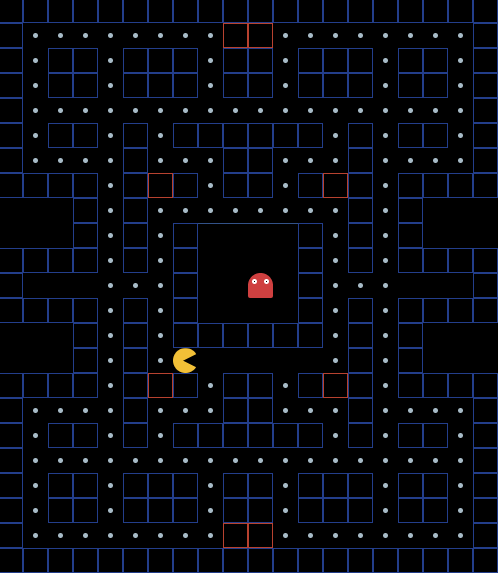
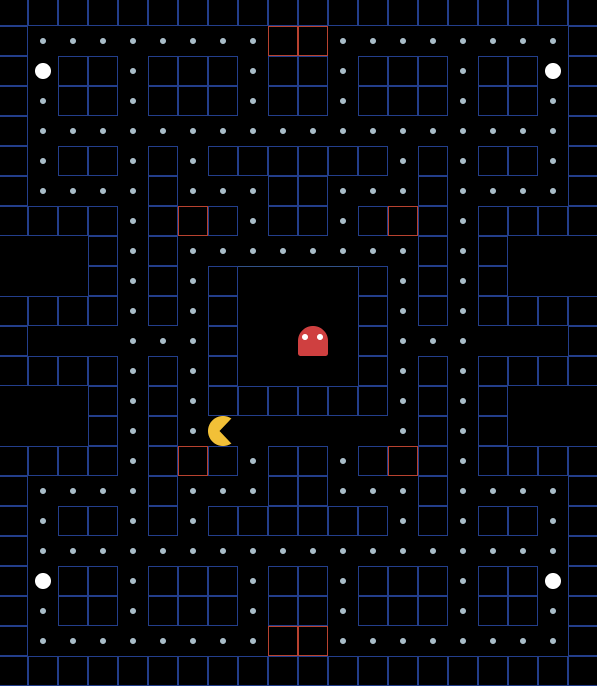
Ajout des map + les pill

diff --git a/src/components/index.js b/src/components/index.js
@@ -1,4 +1,4 @@
-import { LEVEL, OBJECT_TYPE } from './setup';
+import { LEVEL, LEVEL2, OBJECT_TYPE } from './setup';
 // Classes
 import GameBoard from './GameBoard';
 import Pacman from './Pacman';
@@ -20,6 +20,7 @@ export default {
 			powerPillTimer: null,
 			pacx: null,
 			isSwap: false,
+			isEat: false,
 		}
 	},
 	beforemounted() {
@@ -47,12 +48,6 @@ export default {
 		checkCollision(pacman, player2) {
 
 			if (pacman.pos == player2.pos) {
-				this.playAudio(fruit)
-				this.gameBoard.removeObject(pacman.pos, [OBJECT_TYPE.PACMAN]);
-				this.gameBoard.removeObject(player2.pos, [OBJECT_TYPE.PACMAN2]);
-				this.gameBoard.removeObject(pacman.pos, [OBJECT_TYPE.PACMAN]);
-				this.gameBoard.removeObject(player2.pos, [OBJECT_TYPE.PACMAN2]);
-				this.isSwap = true
 				//this.socket.emit("swap", this.room)
 
 				// this.socket.emit("playerSwap", this.room)
@@ -66,19 +61,19 @@ export default {
 
 				// console.log("oui");
 
-				// if (pacman.powerPill) {
-				// 	this.gameBoard.removeObject(collidedGhost.pos, [
-				// 		OBJECT_TYPE.GHOST,
-				// 		OBJECT_TYPE.SCARED,
-				// 		collidedGhost.name
-				// 	]);
-				// 	collidedGhost.pos = collidedGhost.startPos;
-				// 	his.score += 100;
-				// } else {
-				// this.gameBoard.removeObject(pacman.pos, [OBJECT_TYPE.PACMAN]);
-				// this.gameBoard.rotateDiv(pacman.pos, 0);
-				// this.gameOver(pacman, this.gameGrid);
-				// }
+				if (pacman.powerPill) {
+					this.gameBoard.removeObject(player2.pos, [OBJECT_TYPE.PACMAN2]);
+					this.gameBoard.removeObject(player2.pos, [OBJECT_TYPE.PACMAN2]);
+					this.powerr = false
+					this.isEat = true
+				} else {
+					this.playAudio(fruit)
+					this.gameBoard.removeObject(pacman.pos, [OBJECT_TYPE.PACMAN]);
+					this.gameBoard.removeObject(player2.pos, [OBJECT_TYPE.PACMAN2]);
+					this.gameBoard.removeObject(pacman.pos, [OBJECT_TYPE.PACMAN]);
+					this.gameBoard.removeObject(player2.pos, [OBJECT_TYPE.PACMAN2]);
+					this.isSwap = true
+				}
 			}
 		},
 		wait(ms) {
@@ -112,7 +107,13 @@ export default {
 				else
 					this.playerType = "p1"
 				this.isSwap = false
-			} else {
+			} else if(this.isEat){
+				player2.pos = 230
+				this.gameBoard.moveCharacter(player2);
+				this.isEat = false
+			}
+			
+			else {
 
 				if (this.playerType == "p2") {
 					this.socket.on("pacmanMove", (pac) => {
@@ -143,20 +144,19 @@ export default {
 				this.gameBoard.dotCount--;
 			}
 			// 6. Check if Pacman eats a power pill
-			// ? A voir + tard
-			// ? if (this.gameBoard.objectExist(pacman.pos, OBJECT_TYPE.PILL)) {
-
-			// ? 	this.gameBoard.removeObject(pacman.pos, [OBJECT_TYPE.PILL]);
-
-			// ? 	pacman.powerPill = true;
-			// ? 	//this.score += 50;
-
-			// ? 	clearTimeout(this.powerPillTimer);
-			// ? 	this.powerPillTimer = setTimeout(
-			// ? 		() => (pacman.powerPill = false),
-			// ? 		this.POWER_PILL_TIME
-			// ? 	);
-			// ? }
+			if (this.gameBoard.objectExist(pacman.pos, OBJECT_TYPE.PILL)) {
+				this.gameBoard.removeObject(pacman.pos, [OBJECT_TYPE.PILL]);
+				pacman.powerPill = true;
+				this.powerr = true
+				clearTimeout(this.powerPillTimer);
+				this.powerPillTimer = setTimeout(
+					() => {
+						pacman.powerPill = false
+						this.powerr = false
+					},
+					this.POWER_PILL_TIME
+				);
+			}
 			// 7. Change ghost scare mode depending on powerpill
 			// if (pacman.powerPill !== this.powerPillActive) {
 			// 	this.powerPillActive = pacman.powerPill;
@@ -174,8 +174,14 @@ export default {
 			this.gameWin = false;
 			this.powerPillActive = false;
 			const gameGrid = document.querySelector('#game');
-			this.gameBoard = GameBoard.createGameBoard(gameGrid, LEVEL);
-			this.gameBoard.createGrid(LEVEL);
+			let level
+			if (this.map === 0) {
+				level = LEVEL
+			} else {
+				level = LEVEL2
+			}
+			this.gameBoard = GameBoard.createGameBoard(gameGrid, level);
+			this.gameBoard.createGrid(level);
 			const pacman = new Pacman(1, 287);
 			const player2 = new Player2(1, 230);
 			this.gameBoard.addObject(287, [OBJECT_TYPE.PACMAN]);

diff --git a/src/pages/Index.vue b/src/pages/Index.vue
@@ -97,6 +97,34 @@
           User 2 : {{ user.user2 !== '' ? user.user2 : 'Wating player 2...' }}
         </span>
         <div class="marginImage"></div>
+          <b-carousel
+            v-model="carousel"
+            :animated="animated"
+            :autoplay="autoPlay"
+            :pause-info-type="pauseType"
+            :interval="interval"
+            :repeat="repeat"
+			v-if="user.user2 !== ''"
+            @change="changeMap($event)"
+          >
+            <b-carousel-item>
+              <section :class="`hero is-small is-dark`">
+                <div class="hero-body has-text-centered">
+                  <h1 class="title">Map 1</h1>
+                  <img src="~assets/capture.png" width="300" />
+                </div>
+              </section>
+            </b-carousel-item>
+            <b-carousel-item>
+              <section :class="`hero is-small is-dark`">
+                <div class="hero-body has-text-centered">
+                  <h1 class="title">Map 2</h1>
+                  <img src="~assets/map2.png" width="300" />
+                </div>
+              </section>
+            </b-carousel-item>
+          </b-carousel>
+        <div class="marginImage"></div>
         <div class="columns is-centered" v-if="type === 'user1'">
           <b-button
             class="is-link"
@@ -118,6 +146,11 @@
           <span style="color: #cf4040;">Ghost</span>
         </div>
       </div>
+	  <div class="columns is-centered">
+		  <div v-if="powerr === true && page == 3">
+          <span class="grad1">Ghost is scared</span>
+        </div>
+	  </div>
     </div>
     <div v-if="swapTime === true">
       <span>Swap !</span>
@@ -229,6 +262,21 @@ export default {
       page: 0,
       playerType: '',
       swapTime: false,
+	  map: 0,
+	  powerr: false,
+      carousel: 0,
+            animated: 'fade',
+            drag: false,
+            autoPlay: false,
+            pauseHover: false,
+            pauseInfo: false,
+            repeat: false,
+            pauseType: 'is-primary',
+            interval: 3000,
+            carousels: [
+                { title: 'Map 1', color: 'dark', image:"~assets/capture.png"},
+                { title: 'Map 1', color: 'danger', },
+            ]
     }
   },
   mounted() {
@@ -236,11 +284,18 @@ export default {
     this.socket.on('startGame', () => {
       this.launchGame()
     })
+    this.socket.on('changeMap', (map) => {
+      	this.map = map
+    })
   },
   methods: {
     howToPlay() {
       this.page = 4
     },
+	changeMap(map){
+		this.map = map
+		this.socket.emit('changeMap', this.room, map)
+	},
     getRandomString() {
       const randomChars =
         'ABCDEFGHIJKLMNOPQRSTUVWXYZabcdefghijklmnopqrstuvwxyz0123456789'

diff --git a/src/components/setup.js b/src/components/setup.js
@@ -59,7 +59,7 @@ export const CLASS_LIST = [
 export const LEVEL = [
   1, 1, 1, 1, 1, 1, 1, 1, 1, 1, 1, 1, 1, 1, 1, 1, 1, 1, 1, 1,
   1, 2, 2, 2, 2, 2, 2, 2, 2, 4, 4, 2, 2, 2, 2, 2, 2, 2, 2, 1,
-  1, 2, 1, 1, 2, 1, 1, 1, 2, 1, 1, 2, 1, 1, 1, 2, 1, 1, 2, 1,
+  1, 7, 1, 1, 2, 1, 1, 1, 2, 1, 1, 2, 1, 1, 1, 2, 1, 1, 7, 1,
   1, 2, 1, 1, 2, 1, 1, 1, 2, 1, 1, 2, 1, 1, 1, 2, 1, 1, 2, 1,
   1, 2, 2, 2, 2, 2, 2, 2, 2, 2, 2, 2, 2, 2, 2, 2, 2, 2, 2, 1,
   1, 2, 1, 1, 2, 1, 2, 1, 1, 1, 1, 1, 1, 2, 1, 2, 1, 1, 2, 1,
@@ -76,8 +76,34 @@ export const LEVEL = [
   1, 2, 2, 2, 2, 1, 2, 2, 2, 1, 1, 2, 2, 2, 1, 2, 2, 2, 2, 1,
   1, 2, 1, 1, 2, 1, 2, 1, 1, 1, 1, 1, 1, 2, 1, 2, 1, 1, 2, 1,
   1, 2, 2, 2, 2, 2, 2, 2, 2, 2, 2, 2, 2, 2, 2, 2, 2, 2, 2, 1,
-  1, 2, 1, 1, 2, 1, 1, 1, 2, 1, 1, 2, 1, 1, 1, 2, 1, 1, 2, 1,
+  1, 7, 1, 1, 2, 1, 1, 1, 2, 1, 1, 2, 1, 1, 1, 2, 1, 1, 7, 1,
   1, 2, 1, 1, 2, 1, 1, 1, 2, 1, 1, 2, 1, 1, 1, 2, 1, 1, 2, 1,
   1, 2, 2, 2, 2, 2, 2, 2, 2, 4, 4, 2, 2, 2, 2, 2, 2, 2, 2, 1,
   1, 1, 1, 1, 1, 1, 1, 1, 1, 1, 1, 1, 1, 1, 1, 1, 1, 1, 1, 1,
 ];
+export const LEVEL2 = [
+  1, 1, 1, 1, 1, 1, 1, 1, 1, 1, 1, 1, 1, 1, 1, 1, 1, 1, 1, 1,
+  1, 2, 2, 2, 2, 2, 2, 2, 2, 4, 4, 2, 2, 2, 2, 2, 2, 2, 2, 1,
+  1, 7, 1, 1, 2, 1, 1, 1, 2, 1, 1, 2, 1, 1, 1, 2, 1, 1, 7, 1,
+  1, 2, 1, 1, 2, 1, 1, 1, 2, 1, 1, 2, 1, 1, 1, 2, 1, 1, 2, 1,
+  1, 2, 2, 2, 2, 2, 2, 2, 2, 2, 2, 2, 2, 2, 2, 2, 2, 2, 2, 1,
+  1, 2, 1, 1, 2, 1, 2, 1, 1, 1, 1, 1, 1, 2, 1, 2, 1, 1, 2, 1,
+  1, 2, 2, 2, 2, 1, 2, 2, 2, 1, 1, 2, 2, 2, 1, 2, 2, 2, 2, 1,
+  1, 2, 1, 1, 2, 1, 4, 1, 2, 1, 1, 2, 1, 4, 1, 2, 1, 1, 2, 1,
+  1, 2, 1, 1, 2, 1, 2, 2, 2, 2, 2, 2, 2, 2, 1, 2, 1, 1, 2, 1,
+  1, 2, 1, 1, 2, 1, 2, 1, 9, 9, 9, 9, 1, 2, 1, 2, 1, 1, 2, 1,
+  1, 2, 1, 1, 2, 1, 2, 1, 0, 0, 0, 0, 1, 2, 1, 2, 1, 1, 2, 1,
+  1, 2, 4, 4, 2, 2, 2, 1, 0, 0, 0, 0, 1, 2, 2, 2, 4, 4, 2, 1,
+  1, 2, 1, 1, 2, 1, 2, 1, 0, 0, 0, 0, 1, 2, 1, 2, 1, 1, 2, 1,
+  1, 2, 1, 1, 2, 1, 2, 1, 1, 1, 1, 1, 1, 2, 1, 2, 1, 1, 2, 1,
+  1, 2, 1, 1, 2, 4, 2, 0, 0, 0, 0, 0, 0, 2, 4, 2, 1, 1, 2, 1,
+  1, 2, 1, 1, 2, 1, 2, 1, 1, 1, 1, 1, 1, 2, 1, 2, 1, 1, 2, 1,
+  1, 2, 2, 2, 2, 1, 2, 2, 2, 4, 4, 2, 2, 2, 1, 2, 2, 2, 2, 1,
+  1, 2, 1, 2, 2, 1, 4, 1, 2, 1, 1, 2, 1, 4, 1, 2, 2, 1, 2, 1,
+  1, 2, 1, 2, 2, 2, 2, 2, 2, 2, 2, 2, 2, 2, 2, 2, 2, 1, 2, 1,
+  1, 2, 1, 2, 1, 1, 1, 1, 1, 1, 1, 1, 1, 1, 1, 1, 2, 1, 2, 1,
+  1, 2, 1, 2, 1, 0, 0, 0, 0, 0, 0, 0, 0, 0, 0, 1, 2, 1, 2, 1,
+  1, 2, 7, 2, 1, 0, 0, 0, 0, 0, 0, 0, 0, 0, 0, 1, 2, 7, 2, 1,
+  1, 1, 1, 1, 1, 0, 0, 0, 0, 0, 0, 0, 0, 0, 0, 1, 1, 1, 1, 1,
+];
+

diff --git a/src/mixins/socket.js b/src/mixins/socket.js
@@ -3,7 +3,7 @@ import io from 'socket.io-client'
 export default {
   methods: {
     setSocket() {
-      this.socket = io('https://swapmanback.herokuapp.com')
+      this.socket = io('http://localhost:3000/')
     }
   },
 }
